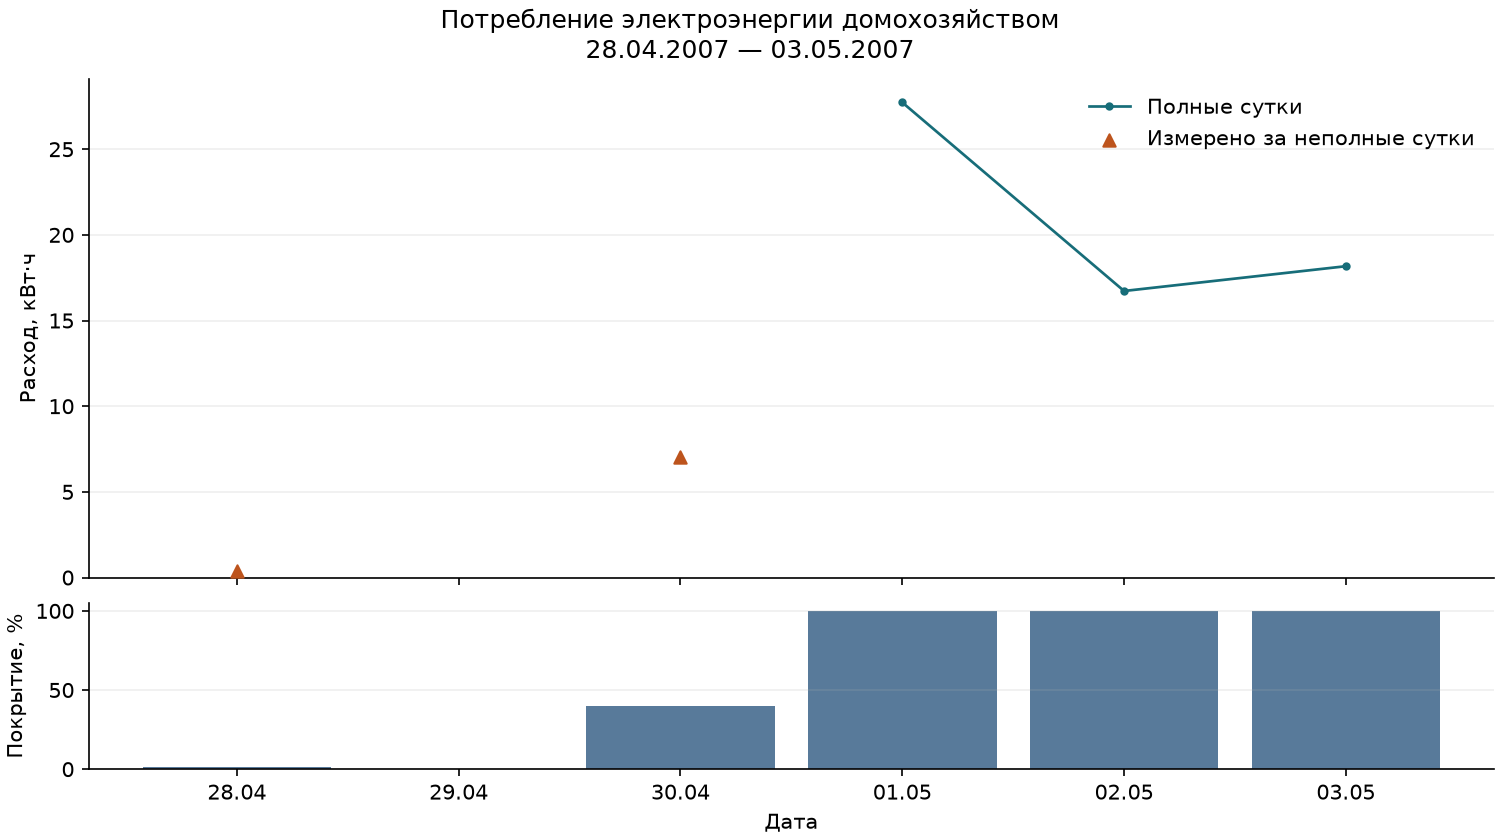
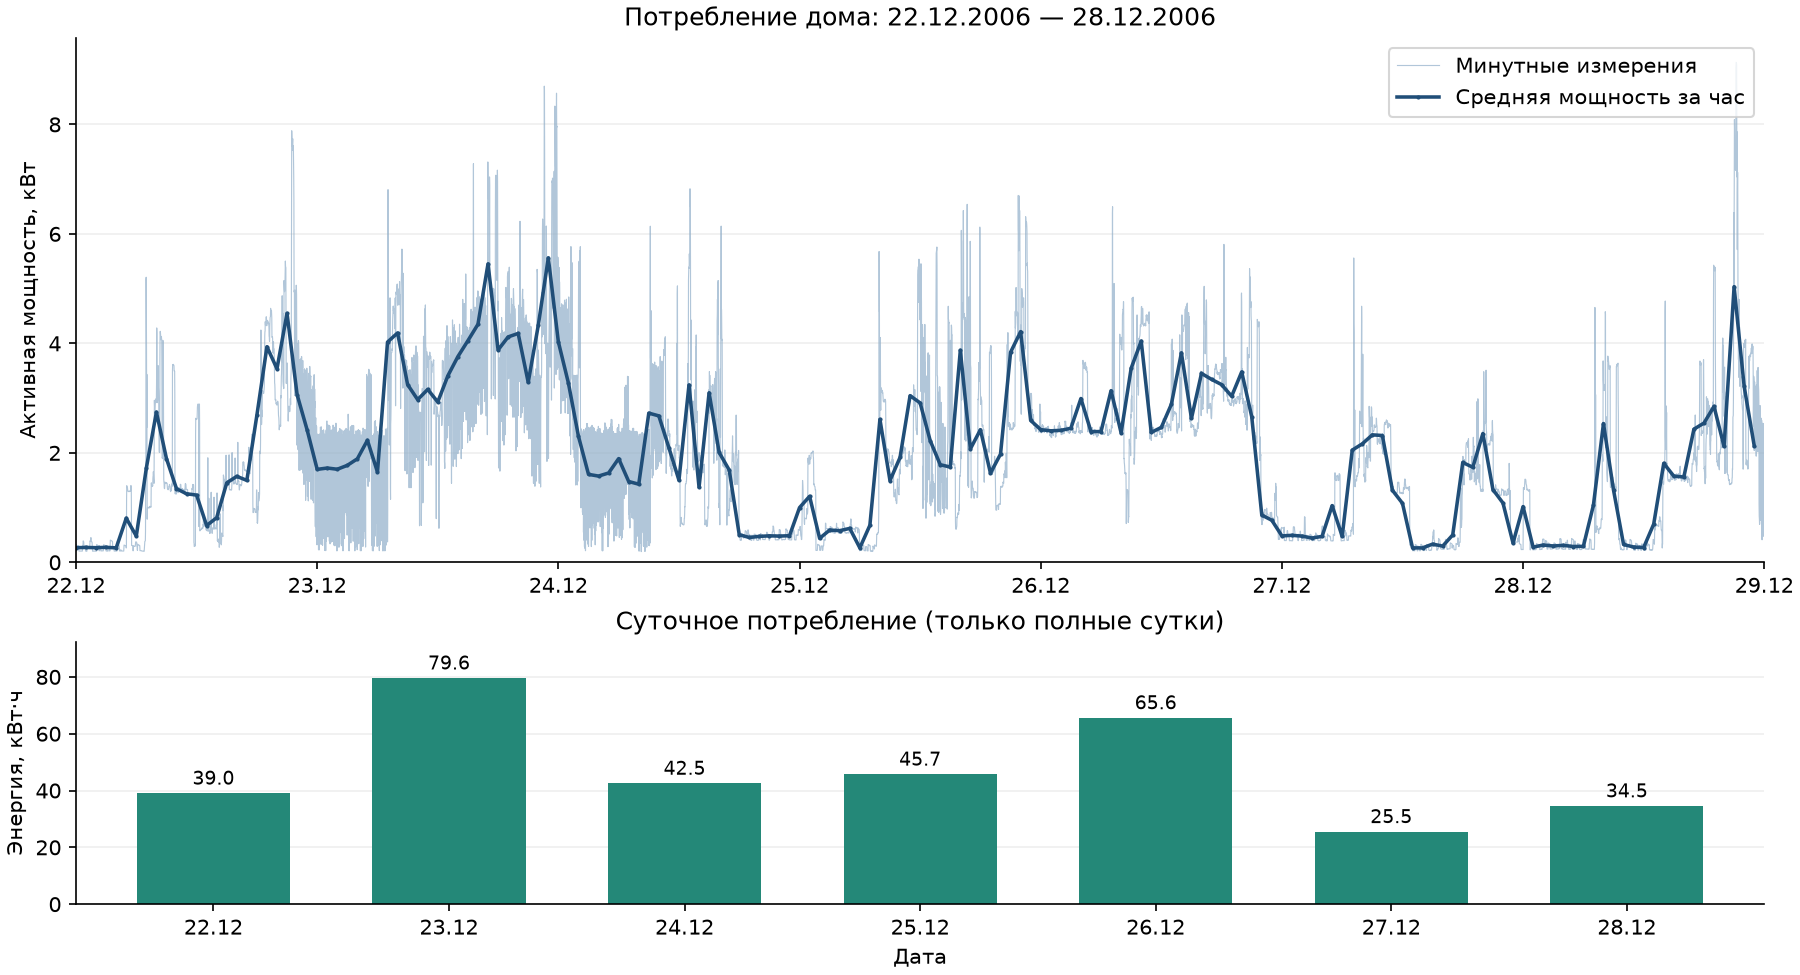
Show minute power, hourly averages and full-day energy bars

diff --git a/plot.py b/plot.py
@@ -1,7 +1,7 @@
 """График суточного потребления электроэнергии за выбранные даты."""
 
 import argparse
-from datetime import date
+from datetime import date, timedelta
 from pathlib import Path
 
 import matplotlib.dates as mdates
@@ -31,36 +31,58 @@ def choose_date(label, argument, first, last, default):
         print(message)
 
 
-def draw(days, output, show):
-    start, end = days.index[0].date(), days.index[-1].date()
-    fig, (energy, coverage) = plt.subplots(
-        2, 1, sharex=True, figsize=(10, 5.6), height_ratios=[3, 1], layout="constrained"
-    )
-    fig.suptitle(f"Потребление электроэнергии домохозяйством\n{start:%d.%m.%Y} — {end:%d.%m.%Y}")
-    energy.plot(days.index, days["full_day_kwh"], color="#176D79", lw=1.3,
-                marker="o", ms=3, label="Полные сутки")
-    partial = days.loc[days["valid_minutes"].between(1, 1439)]
-    energy.scatter(partial.index, partial["observed_kwh"], color="#BD541D", marker="^",
-                   s=35, label="Измерено за неполные сутки", zorder=3)
-    energy.set_ylabel("Расход, кВт·ч")
-    energy.set_ylim(bottom=0)
-    energy.legend(loc="upper right", frameon=False)
-    if days["observed_kwh"].isna().all():
-        energy.text(0.5, 0.45, "За выбранные даты показаний нет",
-                    transform=energy.transAxes, ha="center")
+def read_minutes(daily_path, start, end):
+    source = daily_path.with_name("minutes.csv")
+    if not source.exists():
+        source = daily_path.with_name("minutes.zip")
+    if not source.exists():
+        raise ValueError("Рядом с суточным CSV нужен minutes.csv или minutes.zip.")
+    first, stop = start.isoformat(), (end + timedelta(days=1)).isoformat()
+    selected = []
+    for chunk in pd.read_csv(source, usecols=["timestamp", "active_kw"], chunksize=100000):
+        stamp = chunk["timestamp"]
+        selected.append(chunk.loc[(stamp >= first) & (stamp < stop)])
+    rows = pd.concat(selected, ignore_index=True)
+    rows["timestamp"] = pd.to_datetime(rows["timestamp"])
+    return rows.set_index("timestamp")["active_kw"].asfreq("min")
 
-    coverage.bar(days.index, days["coverage_pct"], color="#587A9A", width=0.85)
-    coverage.set(ylim=(0, 105), yticks=[0, 50, 100], ylabel="Покрытие, %", xlabel="Дата")
-    margin = pd.Timedelta(hours=16)
-    coverage.set_xlim(days.index[0] - margin, days.index[-1] + margin)
-    if len(days) <= 8:
-        coverage.set_xticks(days.index)
-        coverage.xaxis.set_major_formatter(mdates.DateFormatter("%d.%m"))
-    else:
-        locator = mdates.AutoDateLocator(minticks=3, maxticks=8)
-        coverage.xaxis.set_major_locator(locator)
-        coverage.xaxis.set_major_formatter(mdates.DateFormatter("%d.%m.%y"))
-    for axis in (energy, coverage):
+
+def draw(days, minutes, output, show):
+    start, end = days.index[0], days.index[-1]
+    fig, (power, energy) = plt.subplots(2, 1, figsize=(12, 6.5), height_ratios=[2, 1],
+                                        layout="constrained")
+    power.set_title(f"Потребление дома: {start:%d.%m.%Y} — {end:%d.%m.%Y}")
+    power.plot(minutes, color="#90AEC9", lw=0.55, alpha=0.7, label="Минутные измерения")
+    hours = minutes.resample("h")
+    mean_kw = hours.mean().where(hours.count().eq(60))
+    power.plot(mean_kw, color="#204E78", lw=1.7, marker=".", ms=2,
+               label="Средняя мощность за час")
+    power.set(ylabel="Активная мощность, кВт", ylim=(0, None),
+              xlim=(start, end + pd.Timedelta(days=1)))
+    power.legend(loc="upper right")
+    if minutes.count() == 0:
+        power.text(0.5, 0.45, "За выбранный период показаний нет",
+                   transform=power.transAxes, ha="center")
+
+    complete = days["full_day_kwh"].dropna()
+    bars = energy.bar(complete.index, complete, width=0.65, color="#248878")
+    if len(days) <= 21:
+        energy.bar_label(bars, fmt="%.1f", padding=2, fontsize=9)
+    if complete.empty:
+        energy.text(0.5, 0.45, "За выбранный период нет полных суток",
+                    transform=energy.transAxes, ha="center")
+    energy.margins(y=0.16)
+    margin = pd.Timedelta(hours=14)
+    energy.set(title="Суточное потребление (только полные сутки)", ylabel="Энергия, кВт·ч",
+               xlabel="Дата", ylim=(0, None), xlim=(start - margin, end + margin))
+    for axis in (power, energy):
+        if len(days) <= 10:
+            axis.xaxis.set_major_locator(mdates.DayLocator())
+            axis.xaxis.set_major_formatter(mdates.DateFormatter("%d.%m"))
+        else:
+            axis.xaxis.set_major_locator(mdates.AutoDateLocator(minticks=3, maxticks=9))
+            axis.xaxis.set_major_formatter(mdates.DateFormatter("%d.%m.%y"))
+        axis.set_axisbelow(True)
         axis.grid(axis="y", alpha=0.2)
         axis.spines[["top", "right"]].set_visible(False)
 
@@ -88,12 +110,13 @@ def main():
         start = choose_date("Начало", args.start, first, last, first)
         end = choose_date("Конец", args.end, start, last, last)
         days = daily.loc[str(start):str(end)]
+        minutes = read_minutes(args.data, start, end)
         output = ROOT / "plots" / f"energy_{start}_{end}.png"
         measured = days["observed_kwh"].sum(min_count=1)
         if pd.notna(measured):
             print(f"За минуты с показаниями измерено {measured:.3f} кВт·ч.")
         print(f"Полных суток {days['full_day_kwh'].count()} из {len(days)}.")
-        draw(days, output, show=not args.no_show)
+        draw(days, minutes, output, show=not args.no_show)
         print(f"График сохранён в {output}")
     except FileNotFoundError:
         parser.exit(1, f"Файл {args.data} не найден. Укажите --data или запустите prepare.py.\n")
